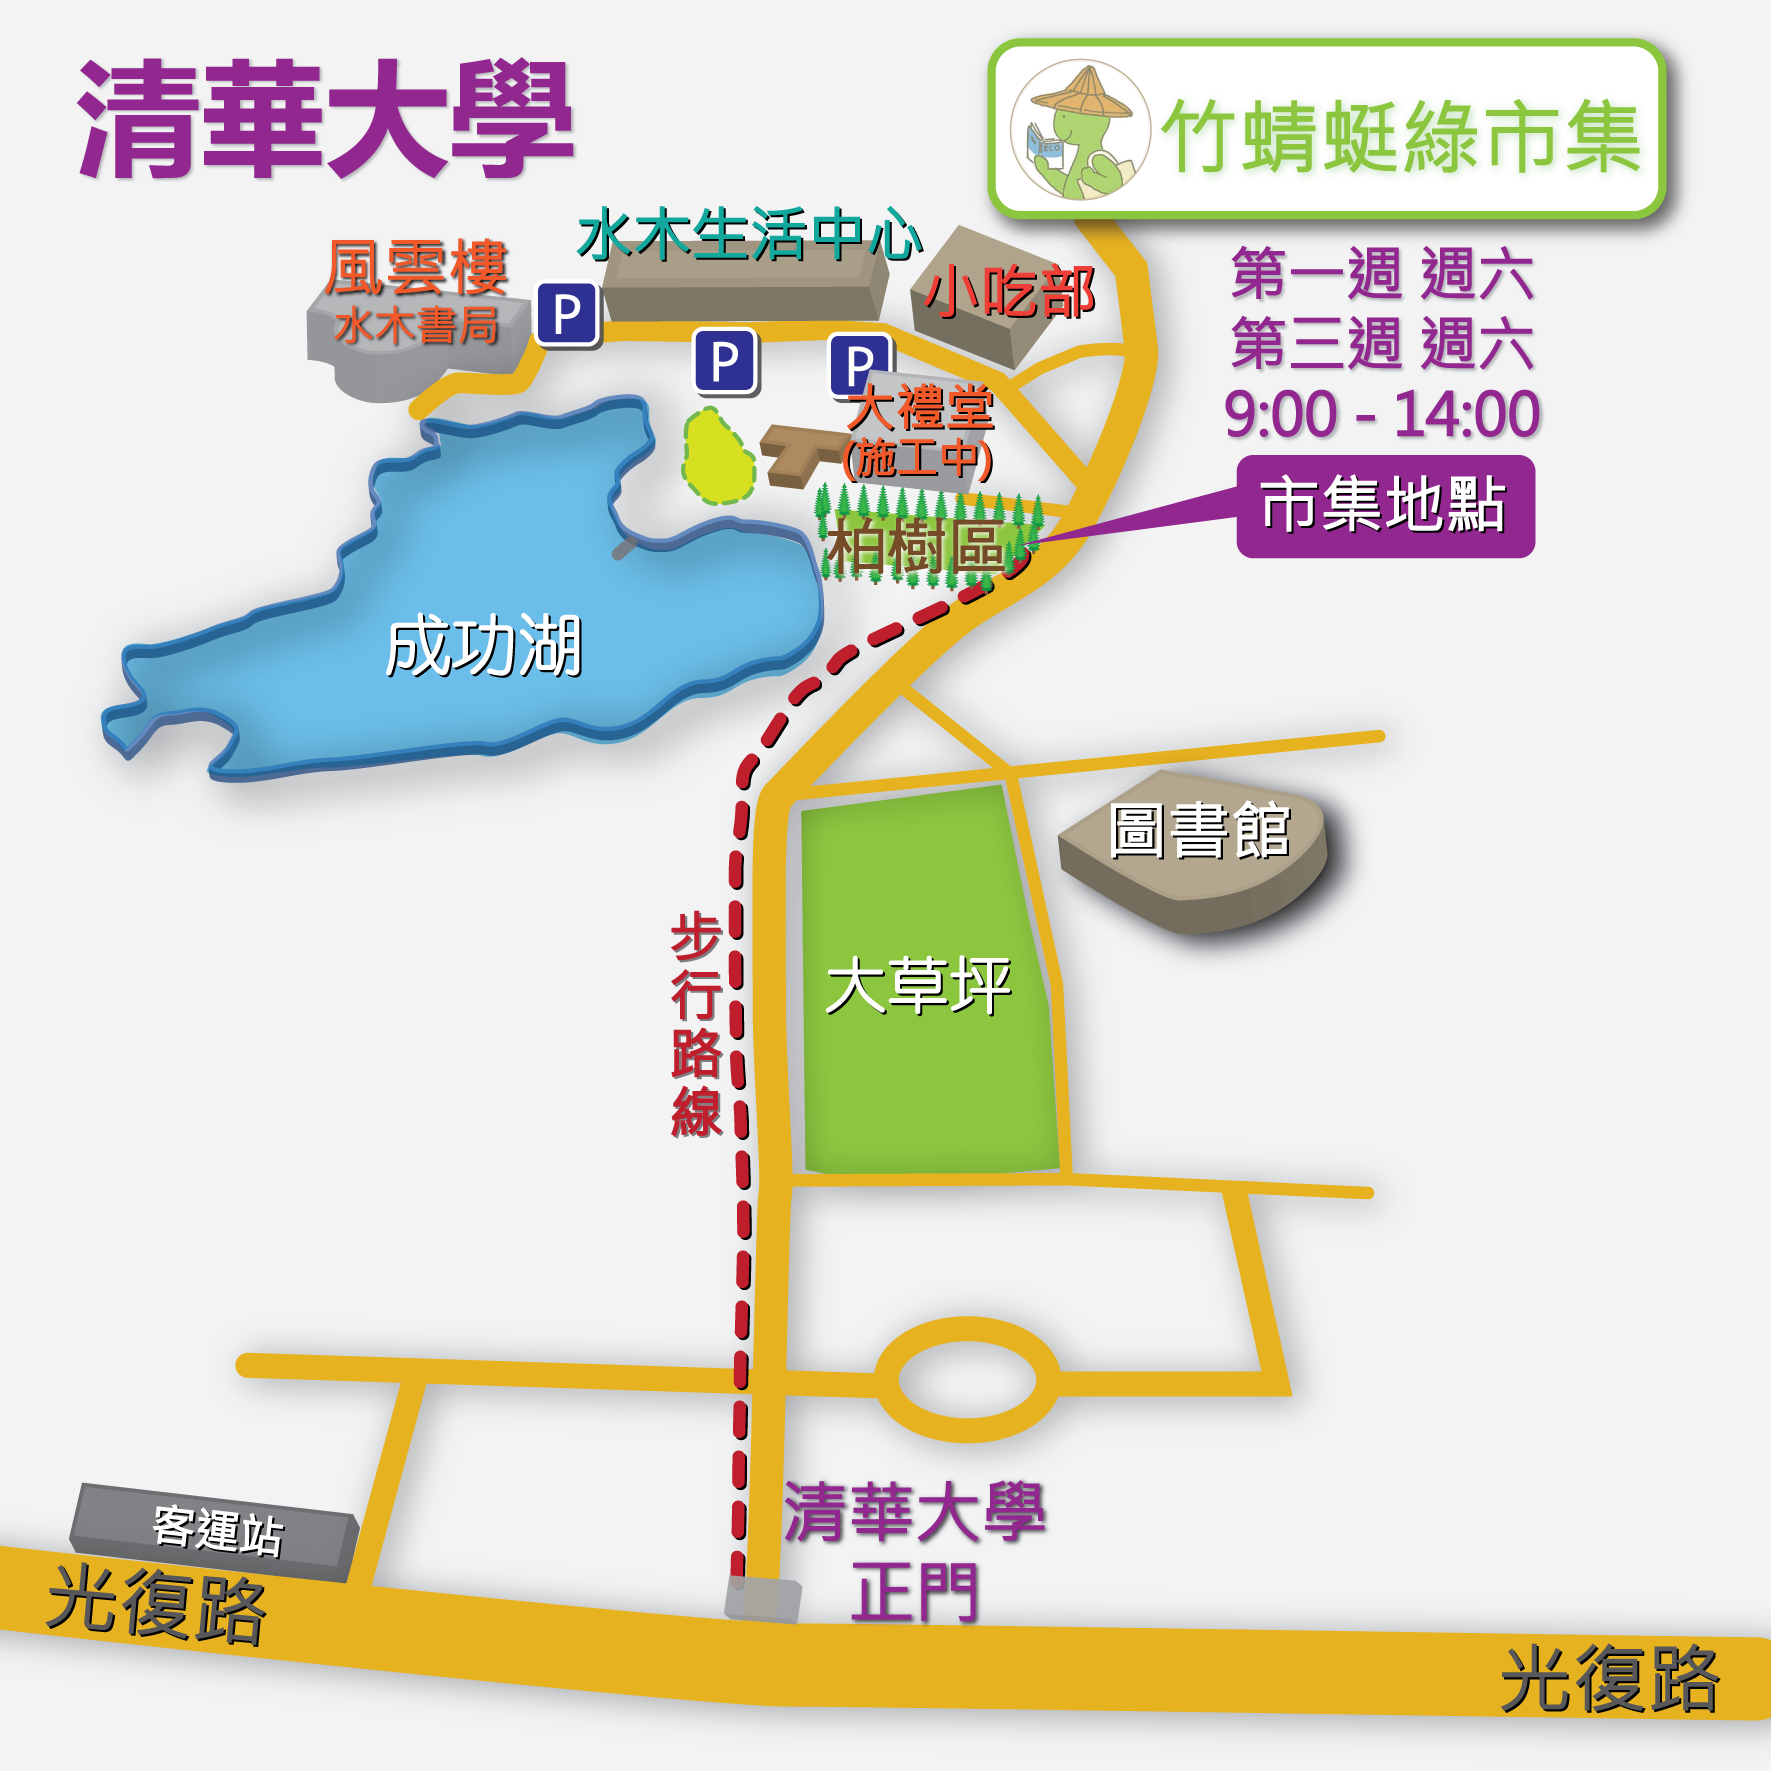
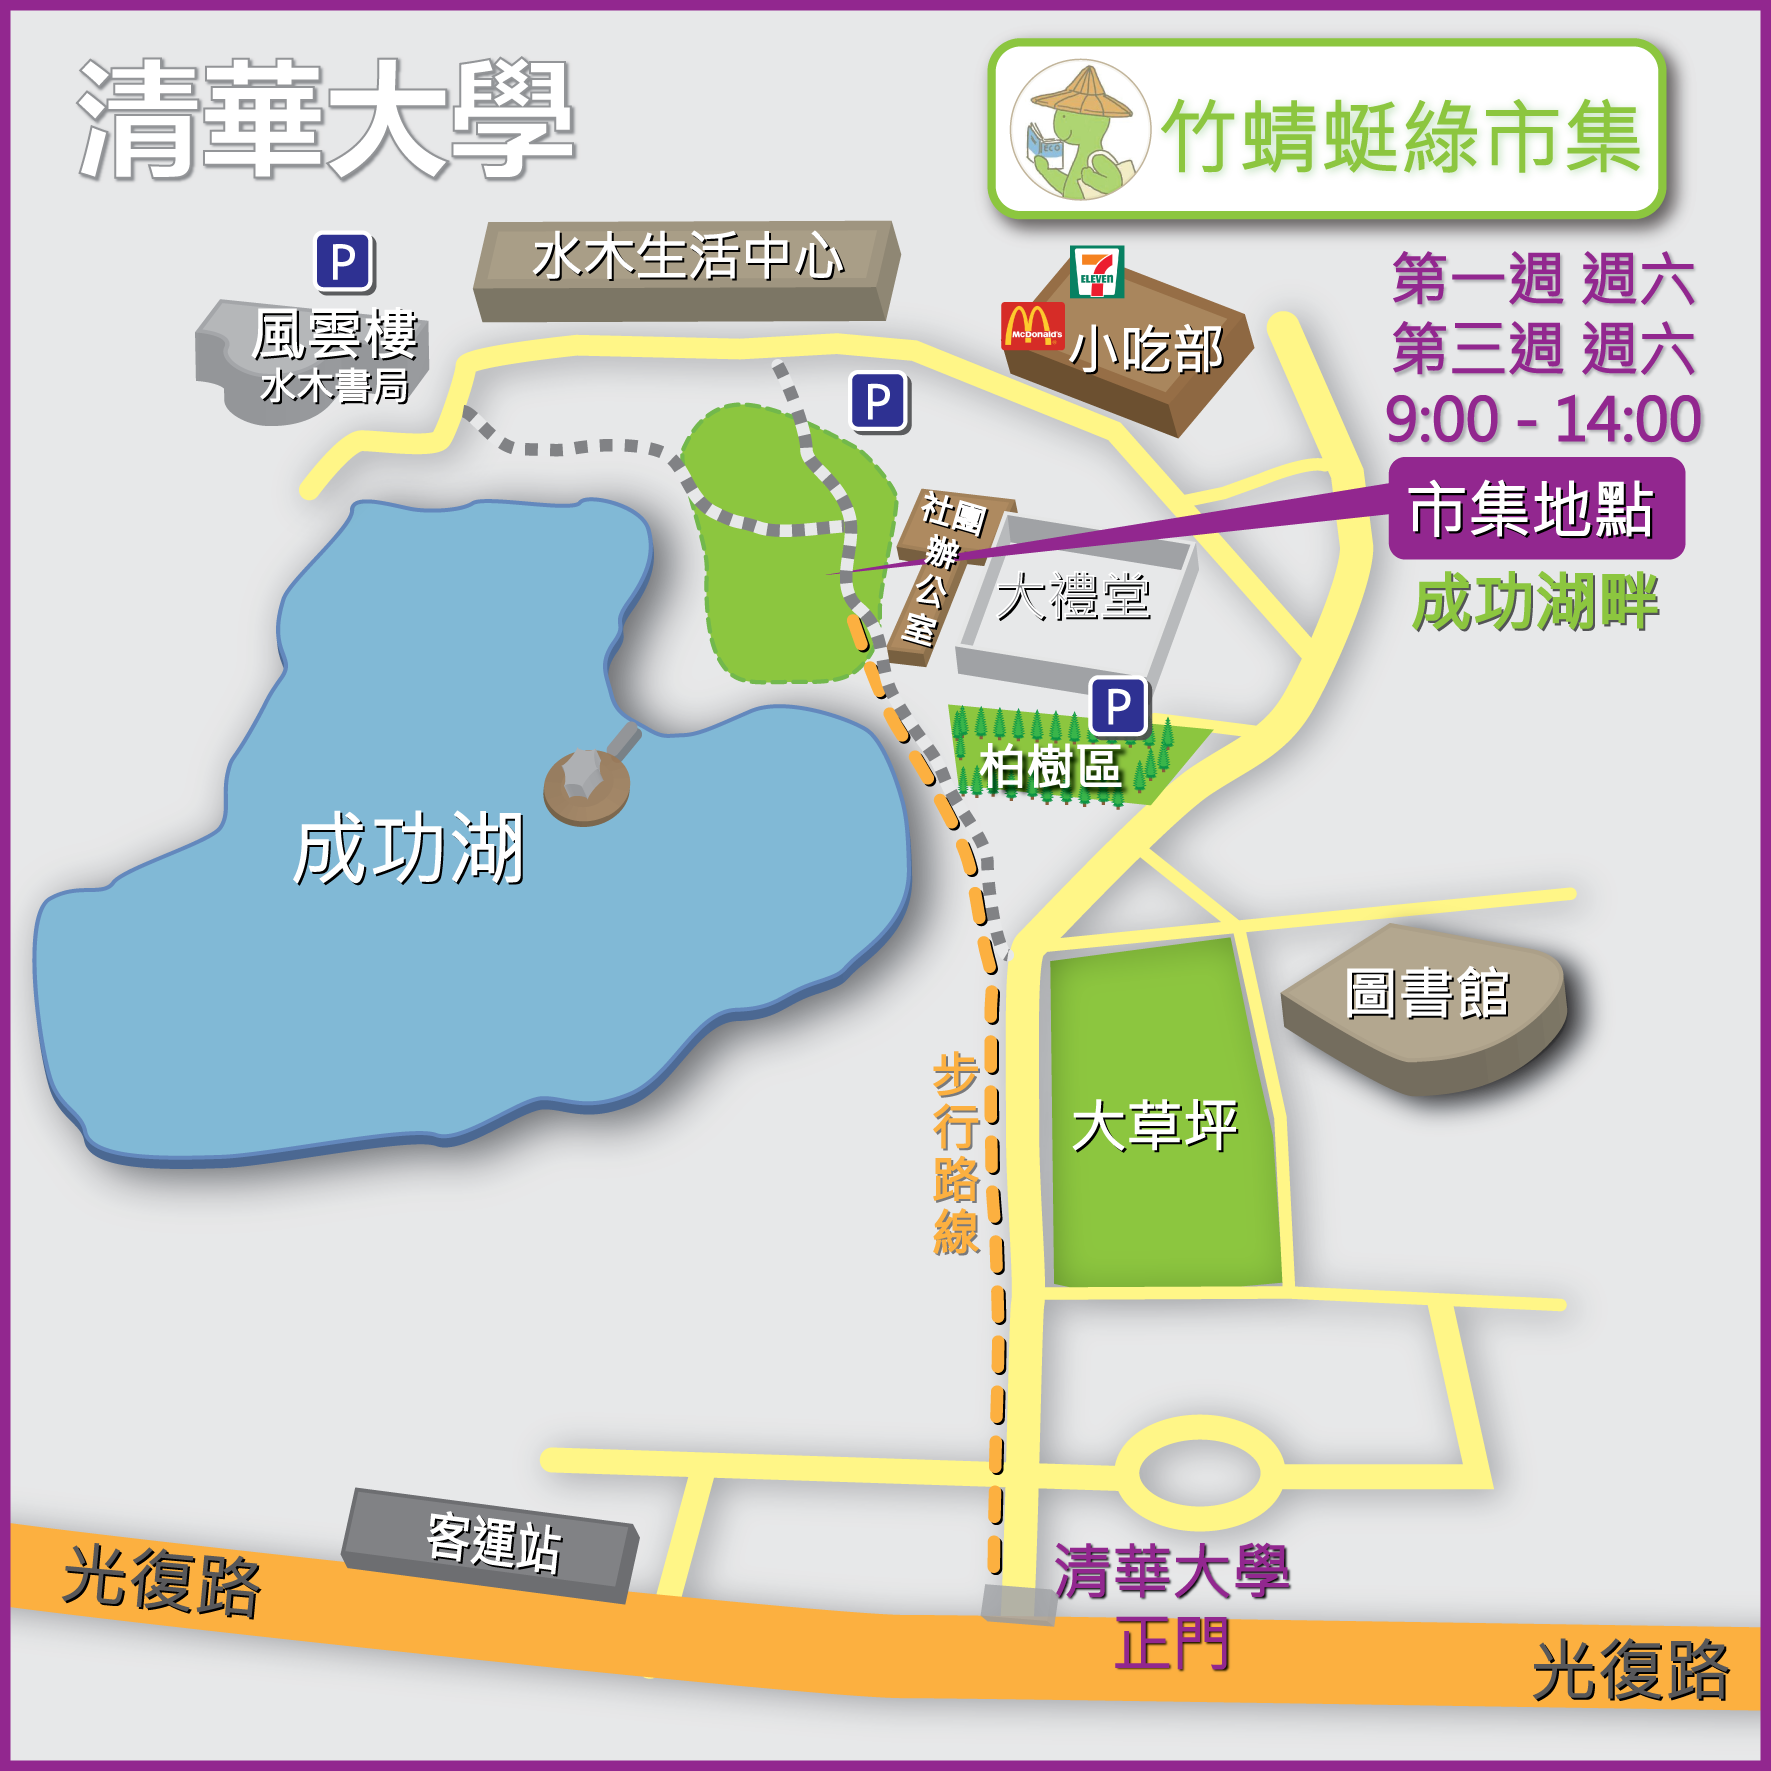
update map

diff --git a/map.html b/map.html
@@ -47,7 +47,7 @@
 						<h2 style="color: #8c2689">清華大學&nbsp;&nbsp;成功湖畔</h2>
 						<p class="lnumber1">
 						一、自行開車：</br>
-						一高在新竹交流道（95A）往光復路122縣道新竹市區方向，在清大左轉，取停車票，往前行進3分鐘，左邊禮堂前停車，市集即在旁邊柏樹下。</br></br>
+						一高在新竹交流道（95A）往光復路122縣道新竹市區方向，在清大左轉，取停車票，往前行進3分鐘，左邊看到成功湖時，即可路邊停車，沿成功湖畔步道前行，就是綠市集了。</br></br>
 						</p>
 						<p class="lnumber1">
 						二、騎機車：（不能騎進校園內！）</br>
@@ -61,7 +61,7 @@
 						<p class="lnumber2">&nbsp;3. 國道客運：三重或國光客運等在清華大學站下車。</p>
 						<br>
 						<p align="left">
-							進入清大正門後，沿著馬路邊的人行步道直走（右側為大草坪）約4分鐘，左側會看到成功湖，再沿路邊中行步道直走約2分鐘，會經過大禮堂前的柏樹區，就是綠市集了！
+							進入清大正門後，沿著馬路邊的人行步道直走（右側為大草坪）約4分鐘，左側會看到成功湖，再沿路成功湖畔的步道直行約3分鐘，就是綠市集了！
 						</p>
 					</div>
 				</article>
